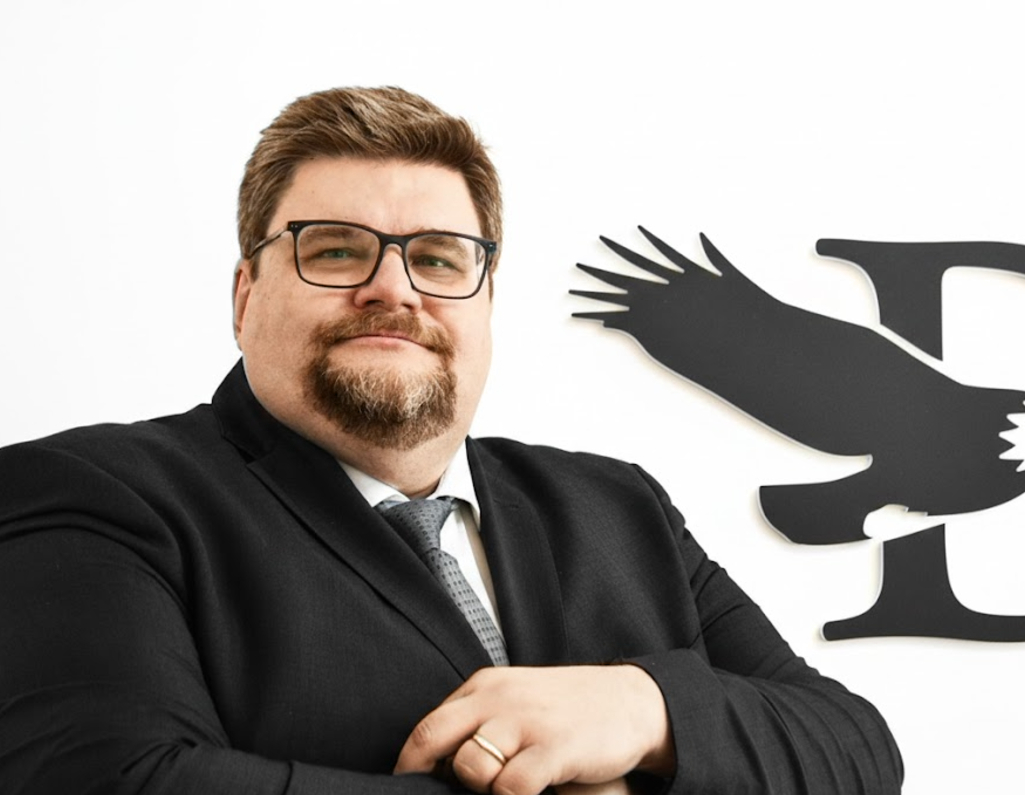
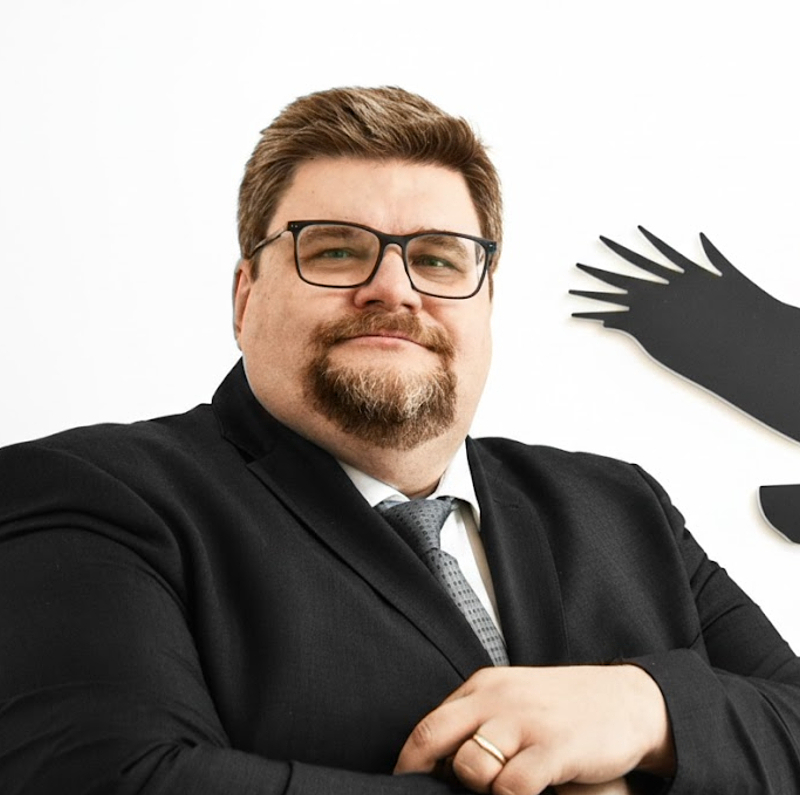
feat: team and landing page edit

diff --git a/src/pages/Acquisto.tsx b/src/pages/Acquisto.tsx
@@ -28,18 +28,18 @@ const Acquisto = () => {
           <div className="bg-card border border-border rounded-xl shadow-sm p-4 sm:p-6 mb-8 sm:mb-10 md:mb-12 mt-3">
             <div className="flex flex-col md:flex-row gap-3 sm:gap-4">
               <div className="flex-1 relative">
-                <Search className="absolute left-3 sm:left-4 top-1/2 -translate-y-1/2 w-4 h-4 sm:w-5 sm:h-5 text-muted-foreground" />
+                {/* left icon for desktop, right icon for mobile */}
+                <Search className="hidden sm:block absolute left-3 sm:left-4 top-1/2 -translate-y-1/2 w-4 h-4 sm:w-5 sm:h-5 text-border" />
+                <Search className="block sm:hidden absolute left-3 top-1/2 -translate-y-1/2 w-4 h-4 text-border" />
                 <input
                   type="text"
                   value={searchQuery}
                   onChange={(e) => setSearchQuery(e.target.value)}
                   placeholder="Cerca per zona, città o tipo di immobile..."
-                  className="w-full pl-10 sm:pl-12 pr-3 sm:pr-4 py-2 sm:py-3 text-sm sm:text-base bg-background border border-border text-foreground placeholder:text-muted-foreground focus:border-primary focus:outline-none"
+                  className="w-full pl-10 sm:pl-12 pr-4 py-2 sm:py-3 text-sm sm:text-base bg-background border border-border text-foreground placeholder:text-muted-foreground focus:border-primary focus:outline-none"
                 />
               </div>
-              <button className="font-display px-6 sm:px-8 py-2.5 sm:py-3 rounded-lg bg-primary text-primary-foreground text-xs sm:text-sm font-medium tracking-wider hover:bg-primary/90 transition-colors shadow-sm">
-                CERCA
-              </button>
+              {/* Search is live as you type; no submit button needed */}
             </div>
           </div>
 

diff --git a/src/components/AboutSection.tsx b/src/components/AboutSection.tsx
@@ -104,7 +104,7 @@ const AboutSection = () => {
               {/* Francesco Mariotti */}
               <div className="text-center">
                 <div className="w-40 h-40 sm:w-48 sm:h-48 md:w-56 md:h-56 lg:w-64 lg:h-64 xl:w-72 xl:h-72 mx-auto mb-4 sm:mb-6 md:mb-8 rounded-full overflow-hidden border-2 border-primary/20 shadow-lg">
-                  <img src="/team/francesco-mariotti.jpg" alt="Francesco Mariotti" className="w-full h-full object-cover object-top" />
+                  <img src="/team/francesco_portrait.jpg" alt="Francesco Mariotti" className="w-full h-full object-cover object-top" />
                 </div>
                 <h4 className="font-serif text-base sm:text-lg md:text-xl lg:text-2xl font-medium text-foreground mb-1 sm:mb-2">
                   Francesco Mariotti
@@ -117,7 +117,7 @@ const AboutSection = () => {
               {/* Sintija Birgele */}
               <div className="text-center md:col-span-1">
                 <div className="w-40 h-40 sm:w-48 sm:h-48 md:w-56 md:h-56 lg:w-64 lg:h-64 xl:w-72 xl:h-72 mx-auto mb-4 sm:mb-6 md:mb-8 rounded-full overflow-hidden border-2 border-primary/20 shadow-lg">
-                  <img src="/team/sintija-birgele.png" alt="Sintija Birgele" className="w-full h-full object-cover object-top" />
+                  <img src="/team/sintija-birgele.jpg" alt="Sintija Birgele" className="w-full h-full object-cover object-top" />
                 </div>
                 <h4 className="font-serif text-base sm:text-lg md:text-xl lg:text-2xl font-medium text-foreground mb-1 sm:mb-2">
                   Sintija Birgele

diff --git a/src/pages/ChiSiamo.tsx b/src/pages/ChiSiamo.tsx
@@ -19,14 +19,14 @@ const team = [
     role: "Co-Founder",
     title: "Co-Founder",
     desc: "Immobiliare",
-    photo: "/team/francesco-mariotti.jpg"
+    photo: "/team/francesco_portrait.jpg"
   },
   {
     name: "Sintija Birgele",
     role: "Team",
     title: "Ingegnera Informatico",
     desc: "Software e digitale",
-    photo: "/team/sintija-birgele.png"
+    photo: "/team/sintija-birgele.jpg"
   },
   {
     name: "Paolo Decaminada",

diff --git a/src/pages/Index.tsx b/src/pages/Index.tsx
@@ -17,9 +17,9 @@ const Index = () => {
         <AboutSection />
       </Reveal>
 
-      <Reveal delay={220}>
+      {/* <Reveal delay={220}>
         <FeaturedProperties />
-      </Reveal>
+      </Reveal> */}
       <Footer />
     </div>
   );
